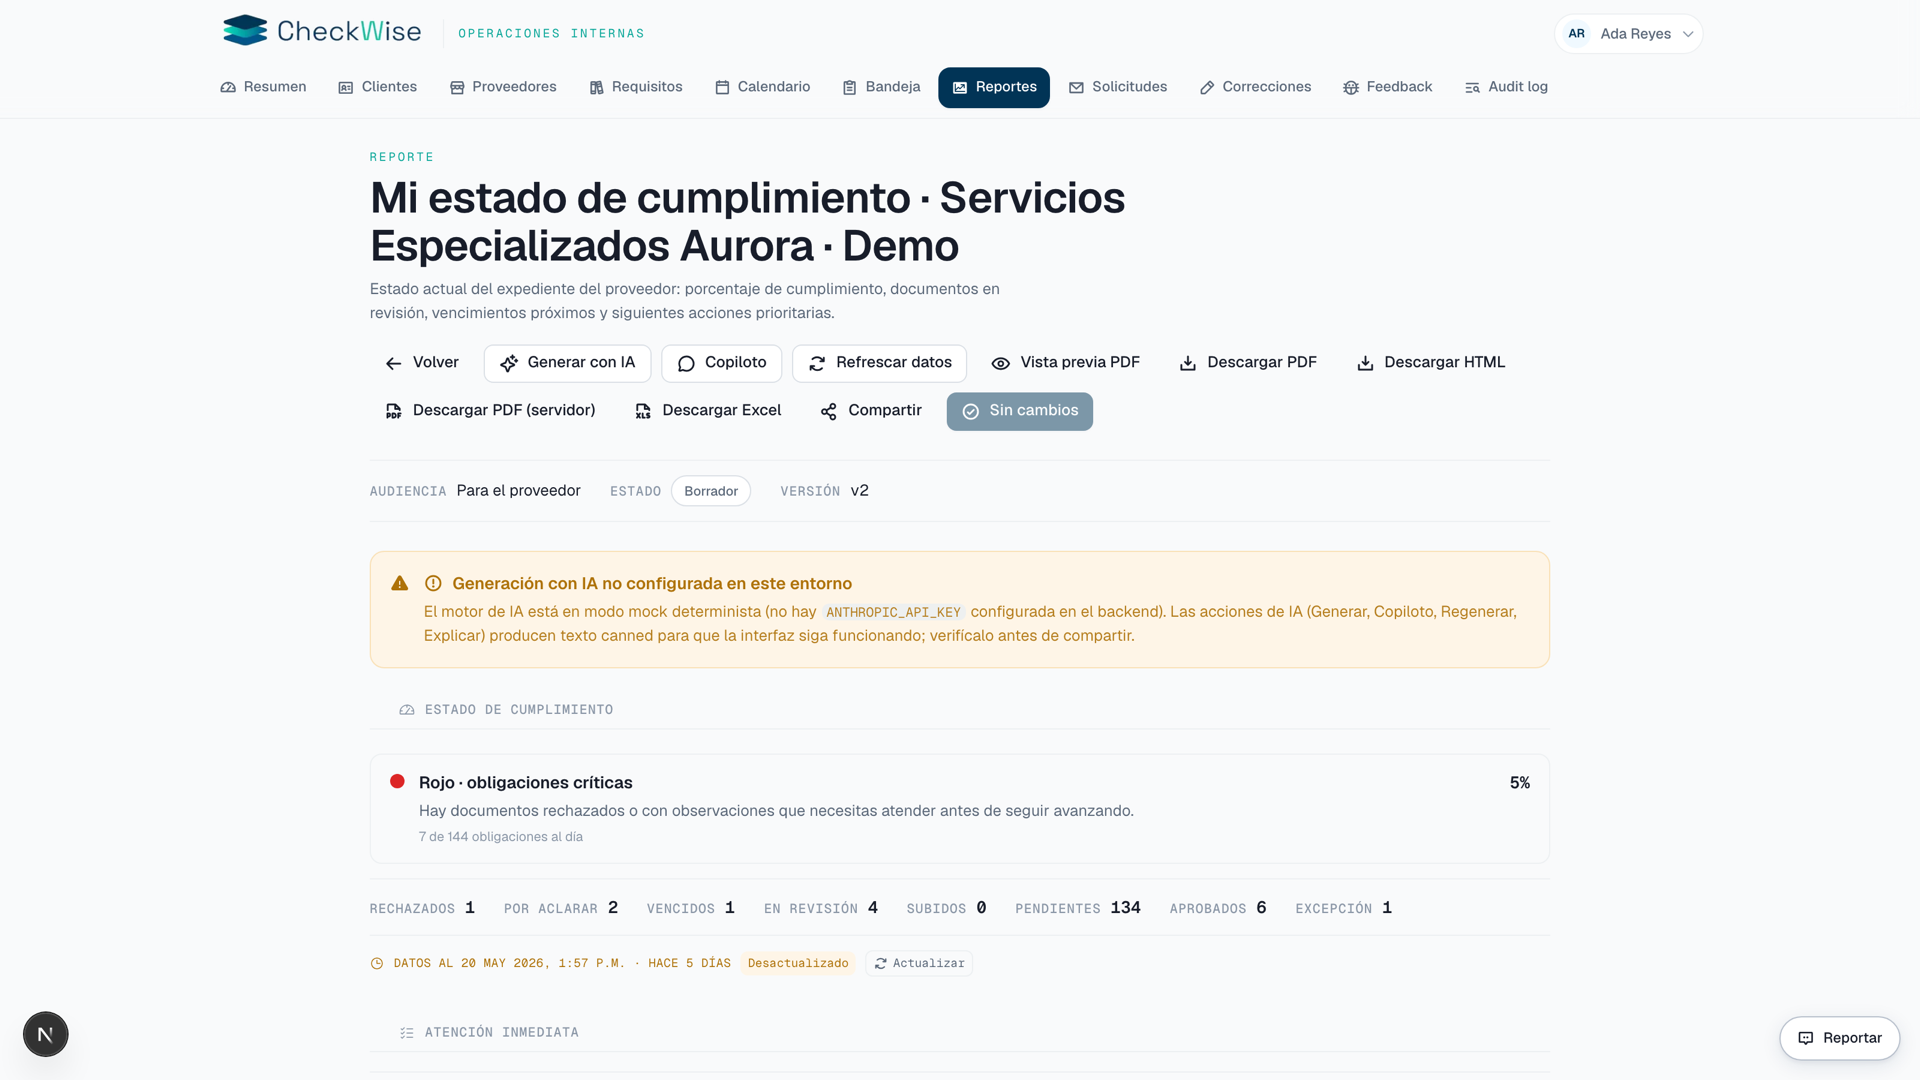
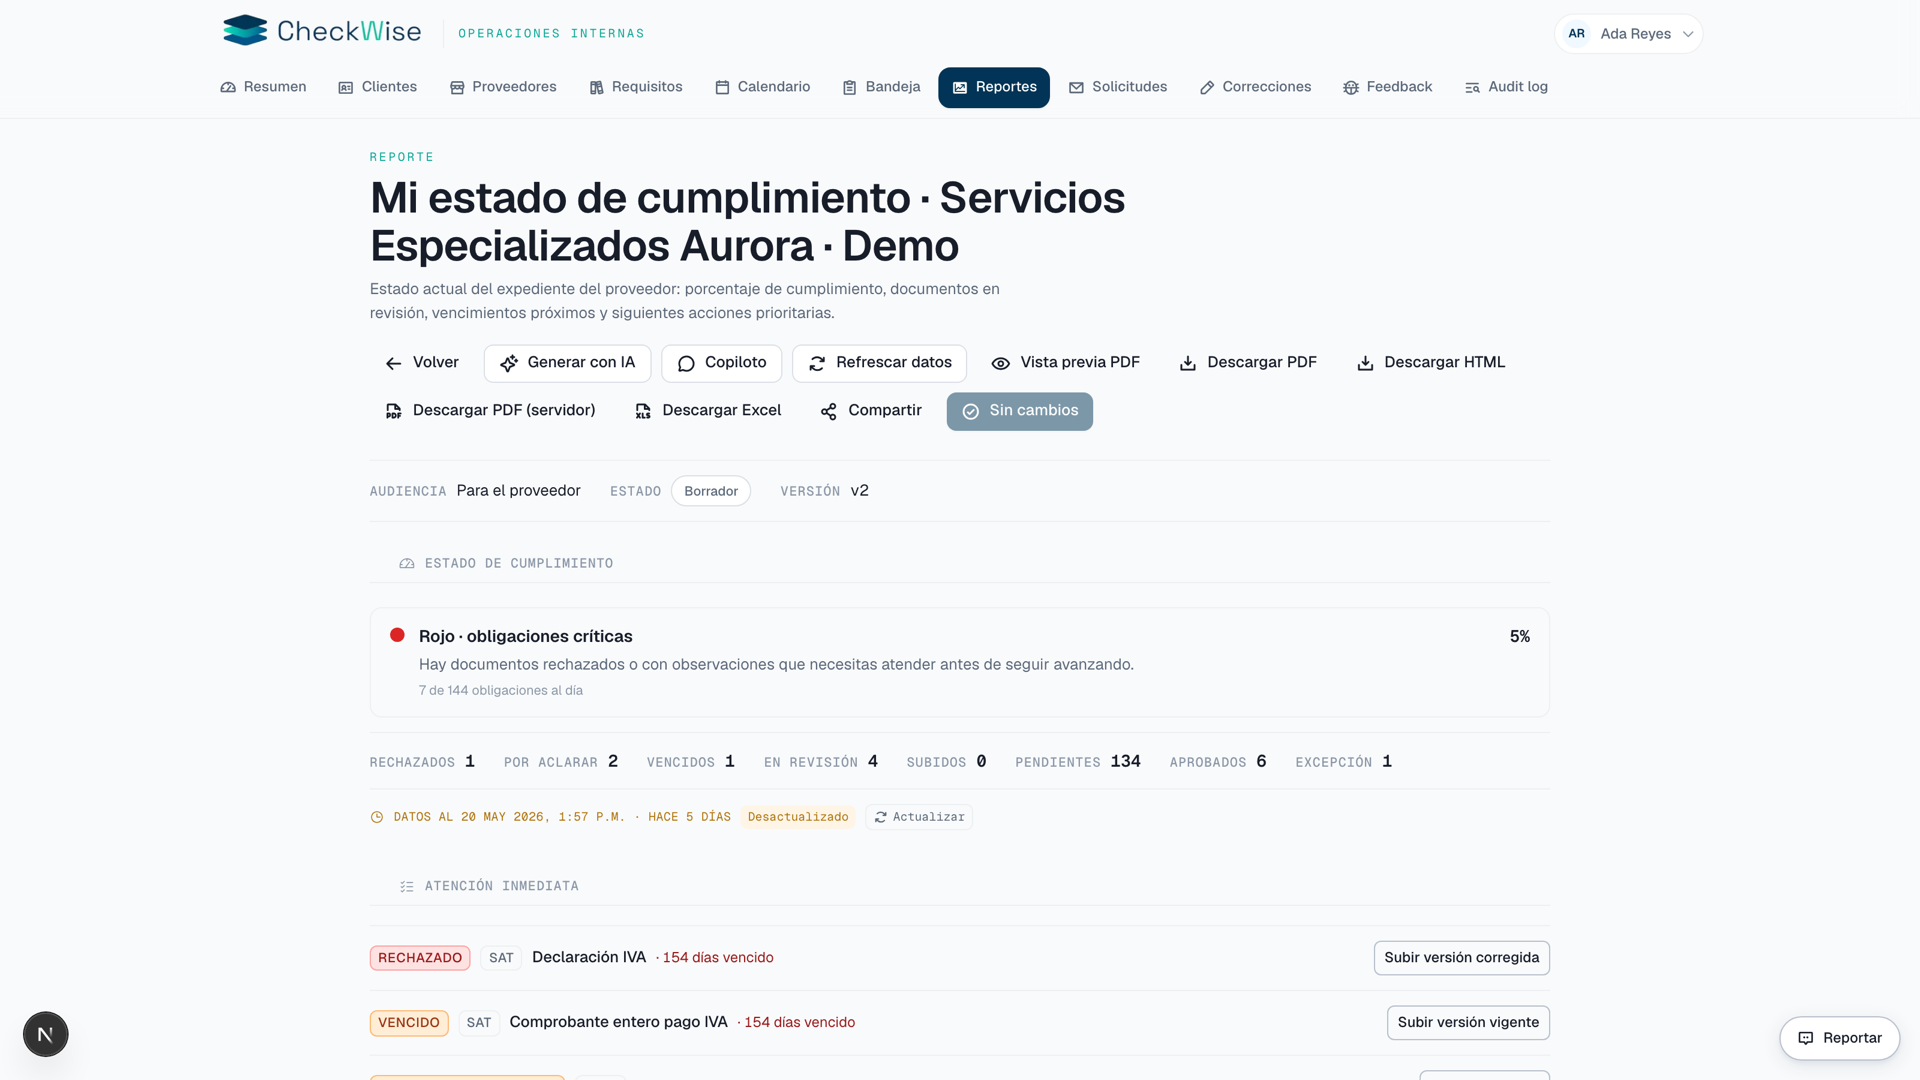
feat(marketing): hero layers zoom into proof + chip annotations
Each hero layer now highlights the single most insightful element
on its screenshot, and a focal-point chip names the takeaway in
plain language. Layer 2 swapped from the reviewer queue to the
audit log so "human decision happened" reads at a glance.

Per-layer focal zoom:
- ``Layer.focus`` { zoom, originX, originY } applied to the
  active layer image via a CSS transform inside an overflow-hidden
  wrapper. Back-stack layers stay at scale 1.
- Provider: zoom 1.15 at (68 %, 30 %) — frames the "TU SIGUIENTE
  ACCIÓN · Corregir declaración IVA" card on the right.
- Audit log: zoom 1.18 at (50 %, 55 %) — frames the actor /
  acción / entidad table rows.
- Client: zoom 1.15 at (50 %, 28 %) — frames the "Tienes 3
  proveedores en rojo" + 387 faltantes card.
- Reports: zoom 1.18 at (50 %, 22 %) — frames the action toolbar
  (Generar con IA · Copiloto · Refrescar datos · Exportaciones).

On-layer chip annotations:
- New ``FocalChip`` component sits ON the active layer (corner
  anchored per layer id) instead of floating outside the frame.
  Replaces the prior single floating chip that rotated with the
  active layer via AnimatePresence.
- Chip content per layer:
    provider → Siguiente acción · Corregir declaración IVA
    audit    → Decisión humana · Ada Reyes · firmada
    client   → Faltantes · 387 obligatorios
    report   → Asistente de reportes · Generar · Refrescar · Exportar

Layer 2 asset swap:
- ``admin-reviewer-queue.png`` (a generic empty queue) replaced
[…]

diff --git a/apps/web/components/marketing/hero-stage.tsx b/apps/web/components/marketing/hero-stage.tsx
@@ -2,7 +2,7 @@
 
 import Image from "next/image";
 import { useCallback, useEffect, useMemo, useState } from "react";
-import { AnimatePresence, motion } from "motion/react";
+import { motion } from "motion/react";
 import {
   Buildings,
   ClipboardText,
@@ -23,44 +23,62 @@ type Layer = {
   chrome: string;
   caption: string;
   chip: { label: string; value: string };
+  /**
+   * Focal-point zoom applied when this layer is the front (active).
+   * - ``zoom``: CSS scale value (1 = no zoom, 1.2 = 20 % closer)
+   * - ``originX``/``originY``: CSS background-style position, in %.
+   *
+   * The Frame component honors these to highlight the screenshot's
+   * single most insightful element. Back-stack layers stay at zoom 1.
+   */
+  focus: { zoom: number; originX: string; originY: string };
 };
 
 const LAYERS: Layer[] = [
   {
     id: "provider",
     src: "/marketing/product/portal-dashboard.png",
-    alt: "Dashboard del proveedor con cumplimiento, próximas acciones y copilot Wise abierto.",
+    alt: "Vista del proveedor con cumplimiento, próximas acciones y asistente Wise.",
     icon: ClipboardText,
-    chrome: "Portal proveedor",
+    chrome: "Vista del proveedor",
     caption: "Servicios Especializados Aurora · expediente activo",
     chip: { label: "Siguiente acción", value: "Corregir declaración IVA" },
+    // Zoom to the right-hand "Tu siguiente acción" card so the buyer
+    // immediately sees the actionable next-step pattern.
+    focus: { zoom: 1.15, originX: "68%", originY: "30%" },
   },
   {
     id: "review",
-    src: "/marketing/product/admin-reviewer-queue.png",
-    alt: "Bandeja de Legal Shelf con documentos en cola, edad y estado de revisión.",
+    src: "/marketing/product/admin-audit-log.png",
+    alt: "Registro de auditoría firmado con actor, acción y entidad.",
     icon: Gavel,
-    chrome: "Bandeja Legal Shelf",
-    caption: "Documentos por revisar · institución, periodo, proveedor",
-    chip: { label: "Decisión humana", value: "Ada Reyes · FIFO" },
+    chrome: "Registro de auditoría",
+    caption: "Eventos firmados · actor · acción · entidad",
+    chip: { label: "Decisión humana", value: "Ada Reyes · firmada" },
+    // Zoom to the table rows where actor/action/entity columns live.
+    focus: { zoom: 1.18, originX: "50%", originY: "55%" },
   },
   {
     id: "client",
     src: "/marketing/product/client-dashboard.png",
-    alt: "Resumen del cliente con portafolio en semáforo y faltantes obligatorios.",
+    alt: "Vista cliente con portafolio en semáforo y faltantes obligatorios.",
     icon: Buildings,
-    chrome: "Portal cliente",
+    chrome: "Vista del cliente",
     caption: "Portafolio Operadora Multinacional · 3 proveedores",
     chip: { label: "Faltantes", value: "387 obligatorios" },
+    // Zoom to the "Tienes 3 proveedores en rojo" + 387 faltantes card.
+    focus: { zoom: 1.15, originX: "50%", originY: "28%" },
   },
   {
     id: "report",
     src: "/marketing/product/admin-report-editor.png",
-    alt: "Editor de reportes con copilot, exportación PDF y Excel.",
+    alt: "Editor de reportes con asistente, exportación PDF, Excel y HTML.",
     icon: Sparkle,
-    chrome: "Reportes + copilot LLM",
-    caption: "Reporte ejecutivo · versión v2 · listo para compartir",
-    chip: { label: "Copilot", value: "Generar · Refrescar · Exportar" },
+    chrome: "Reporte ejecutivo",
+    caption: "Versión publicada · lista para compartir",
+    chip: { label: "Asistente de reportes", value: "Generar · Refrescar · Exportar" },
+    // Zoom to the action toolbar ("Generar con IA · Copiloto · ...").
+    focus: { zoom: 1.18, originX: "50%", originY: "22%" },
   },
 ];
 
@@ -186,37 +204,6 @@ export function HeroStage() {
           })}
         </div>
 
-        {/* Floating context chips — tied to the active layer's chip data
-            so the chip content rotates with the cycle. */}
-        <AnimatePresence mode="wait">
-          <motion.div
-            key={`chip-${active}`}
-            className="absolute right-[8%] top-[14%] hidden items-center gap-2 rounded-md border border-[color:var(--border-default)] bg-[color:var(--surface-raised)]/95 px-3 py-2 shadow-[0_18px_44px_-22px_hsl(var(--brand-navy)/0.45)] backdrop-blur-sm lg:inline-flex"
-            initial={reduce ? false : { opacity: 0, y: -6 }}
-            animate={reduce ? { opacity: 1 } : { opacity: 1, y: 0 }}
-            exit={reduce ? { opacity: 0 } : { opacity: 0, y: -4 }}
-            transition={{ duration: 0.45, ease: EASE_ENTER }}
-          >
-            <span
-              className="flex h-7 w-7 items-center justify-center rounded-md bg-[color:var(--surface-teal-muted)] text-[color:var(--text-teal)]"
-              aria-hidden="true"
-            >
-              {(() => {
-                const I = LAYERS[active].icon;
-                return <I className="h-3.5 w-3.5" weight="duotone" />;
-              })()}
-            </span>
-            <div className="min-w-0">
-              <p className="font-mono text-[9px] uppercase tracking-[0.18em] text-[color:var(--text-tertiary)]">
-                {LAYERS[active].chip.label}
-              </p>
-              <p className="text-[12.5px] font-semibold leading-snug text-[color:var(--text-primary)]">
-                {LAYERS[active].chip.value}
-              </p>
-            </div>
-          </motion.div>
-        </AnimatePresence>
-
         {/* Stage controls — dot rail that doubles as a tap target. */}
         <div className="pointer-events-auto absolute bottom-[6%] right-[8%] hidden items-center gap-2 lg:flex">
           {order.map((i) => {
@@ -281,16 +268,70 @@ function Frame({
           </span>
         ) : null}
       </div>
-      <div className="relative aspect-[16/9.4] w-full">
-        <Image
-          src={layer.src}
-          alt={layer.alt}
-          fill
-          priority={priority}
-          sizes="(min-width: 1280px) 56vw, 70vw"
-          className="object-cover object-top"
-        />
+      <div className="relative aspect-[16/9.4] w-full overflow-hidden">
+        <div
+          className="absolute inset-0 transition-transform duration-700 ease-[cubic-bezier(0.16,1,0.3,1)]"
+          style={
+            active
+              ? {
+                  transform: `scale(${layer.focus.zoom})`,
+                  transformOrigin: `${layer.focus.originX} ${layer.focus.originY}`,
+                }
+              : { transform: "scale(1)", transformOrigin: "center top" }
+          }
+        >
+          <Image
+            src={layer.src}
+            alt={layer.alt}
+            fill
+            priority={priority}
+            sizes="(min-width: 1280px) 56vw, 70vw"
+            className="object-cover object-top"
+          />
+        </div>
+
+        {/* Focal-point chip — sits ON the active layer (not next to it)
+            so the takeaway reads as part of the system surface. Only
+            renders on active layers; back-stack layers stay clean. */}
+        {active ? <FocalChip layer={layer} /> : null}
       </div>
     </div>
+  );
+}
+
+function FocalChip({ layer }: { layer: Layer }) {
+  // Each layer places its focal chip somewhere that mirrors the
+  // focal-area zoom: provider's "siguiente acción" is on the right, so
+  // the chip sits in the right area; the audit log's actor column is
+  // mid-frame, so the chip sits lower-left, etc.
+  const positions: Record<string, string> = {
+    provider: "right-3 top-[58%] -translate-y-1/2",
+    review: "left-3 bottom-3",
+    client: "right-3 top-3",
+    report: "left-3 bottom-3",
+  };
+  const Icon = layer.icon;
+  return (
+    <motion.div
+      initial={{ opacity: 0, y: 6, scale: 0.97 }}
+      animate={{ opacity: 1, y: 0, scale: 1 }}
+      transition={{ duration: 0.55, ease: EASE_ENTER, delay: 0.35 }}
+      className={`pointer-events-none absolute z-10 inline-flex items-center gap-2 rounded-md border border-[color:var(--border-default)] bg-[color:var(--surface-raised)]/95 px-3 py-2 shadow-[0_18px_36px_-18px_hsl(var(--brand-navy)/0.45)] backdrop-blur-sm ${positions[layer.id] ?? "right-3 top-3"}`}
+    >
+      <span
+        aria-hidden="true"
+        className="flex h-6 w-6 items-center justify-center rounded-md bg-[color:var(--surface-teal-muted)] text-[color:var(--text-teal)]"
+      >
+        <Icon className="h-3 w-3" weight="duotone" />
+      </span>
+      <div className="min-w-0">
+        <p className="font-mono text-[9px] uppercase tracking-[0.18em] text-[color:var(--text-tertiary)]">
+          {layer.chip.label}
+        </p>
+        <p className="text-[12px] font-semibold leading-snug text-[color:var(--text-primary)]">
+          {layer.chip.value}
+        </p>
+      </div>
+    </motion.div>
   );
 }